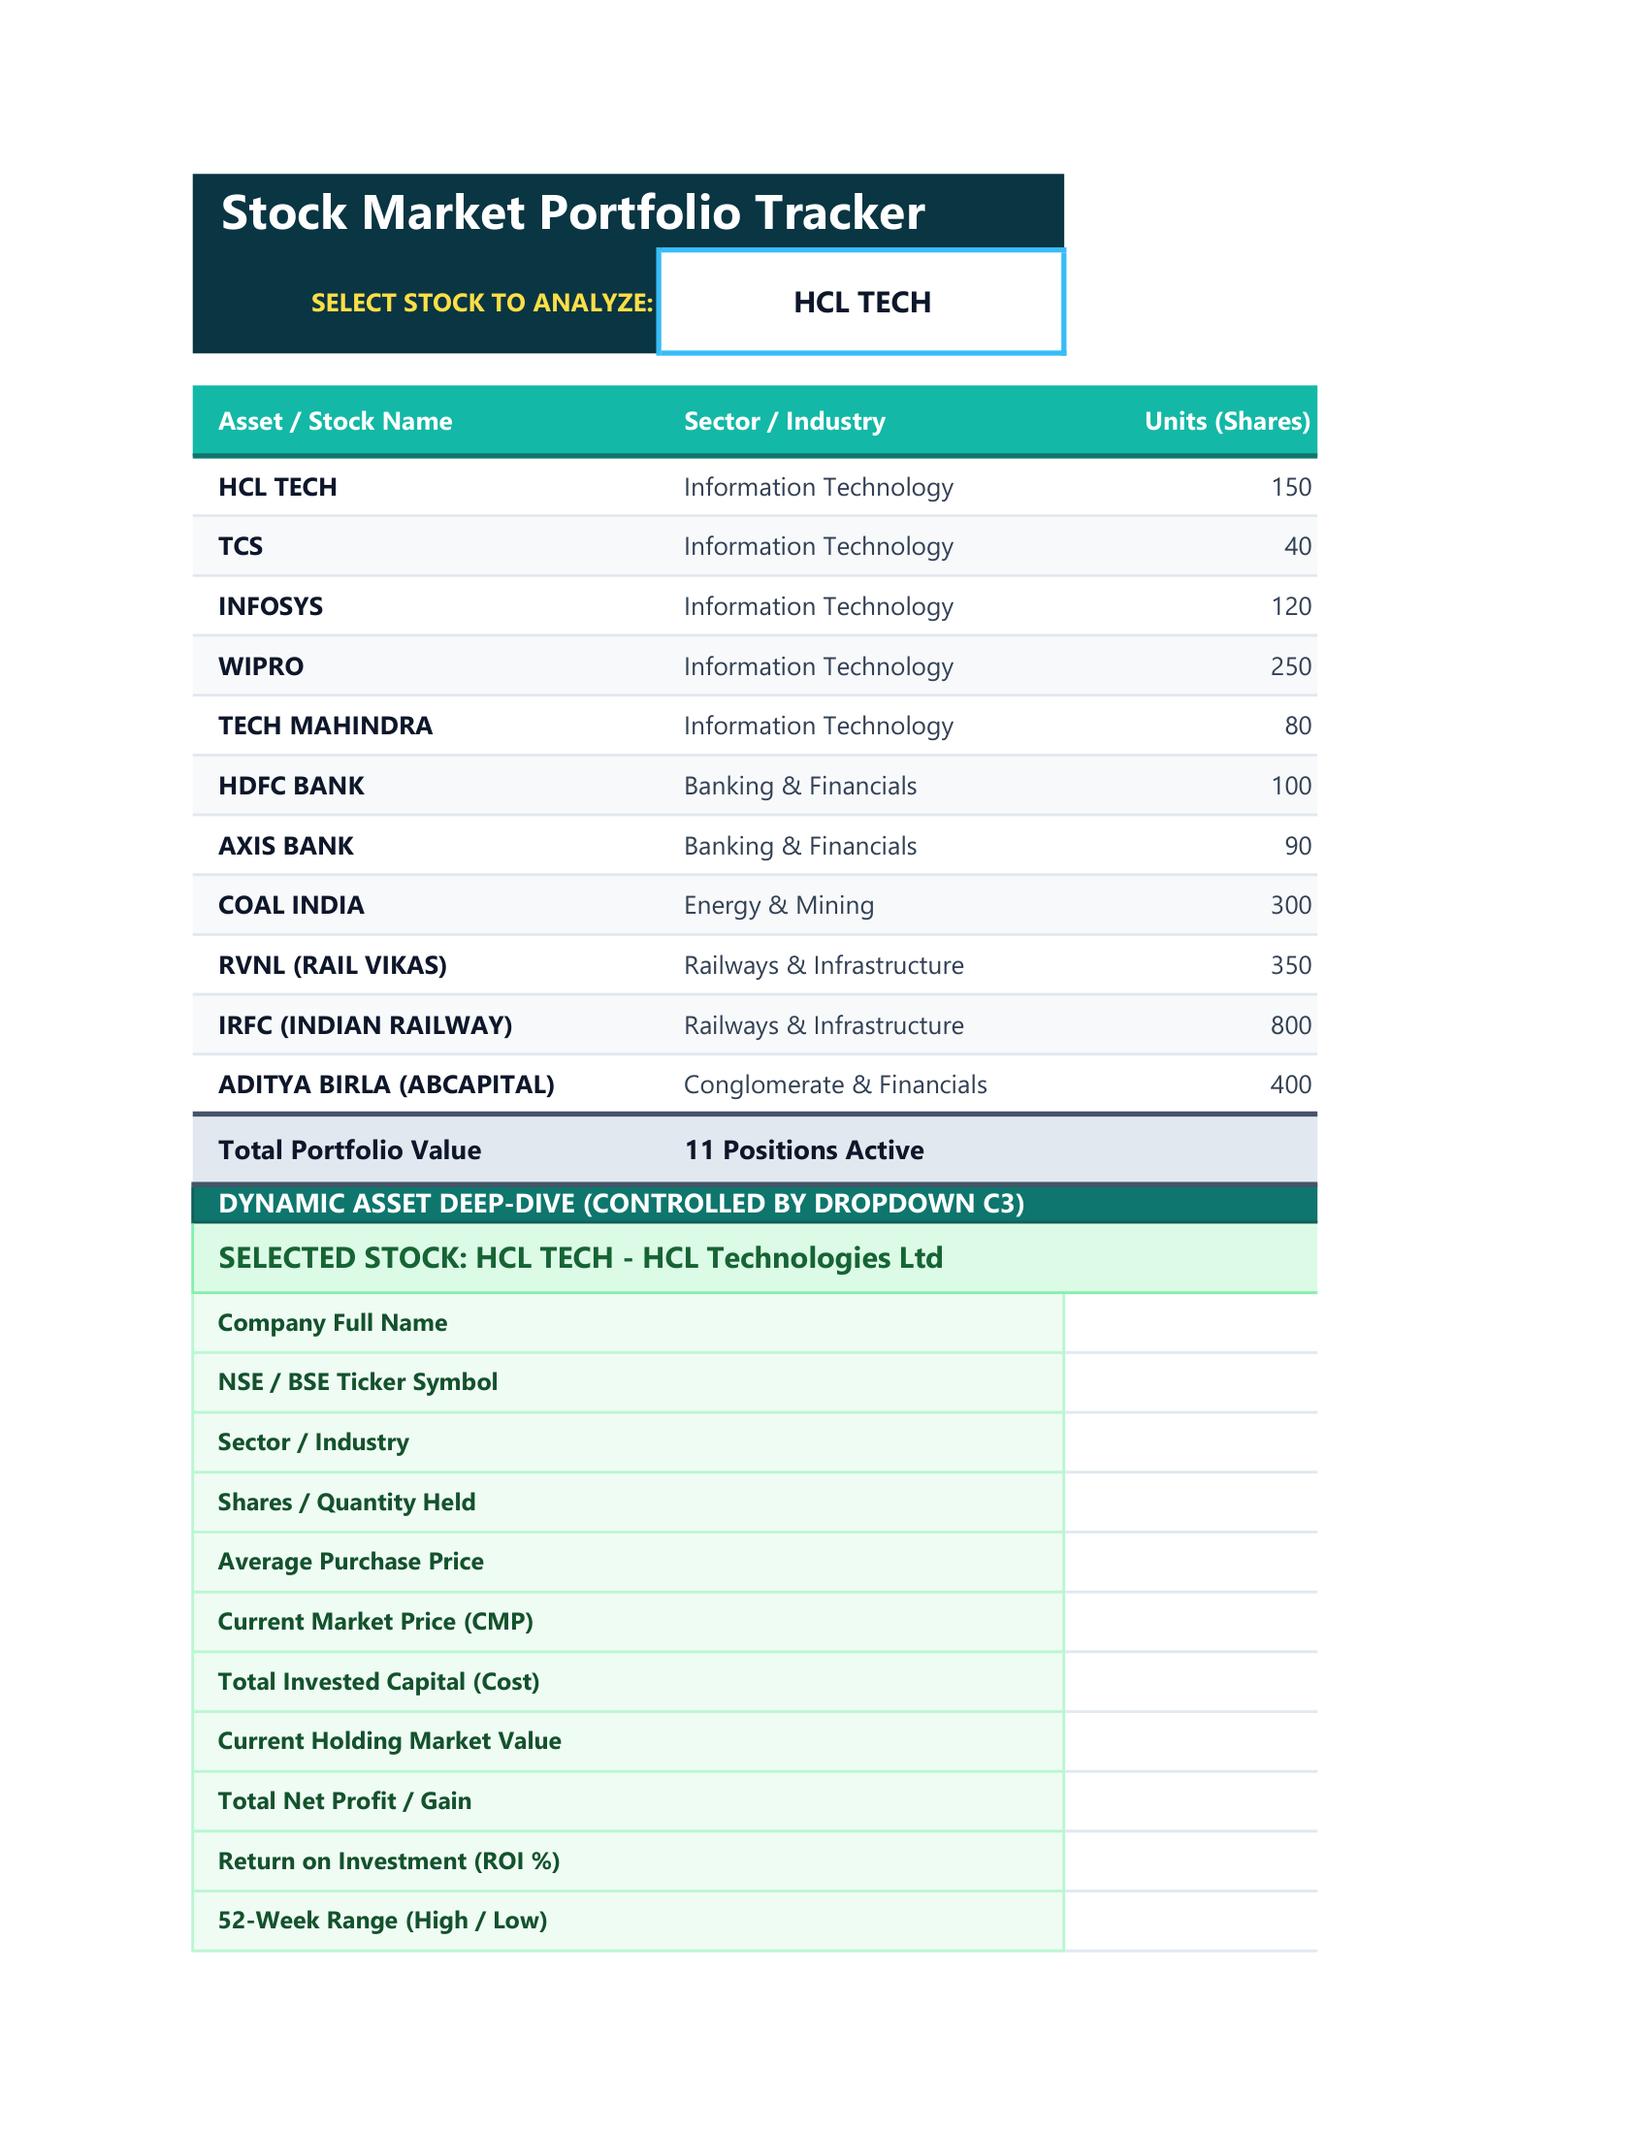
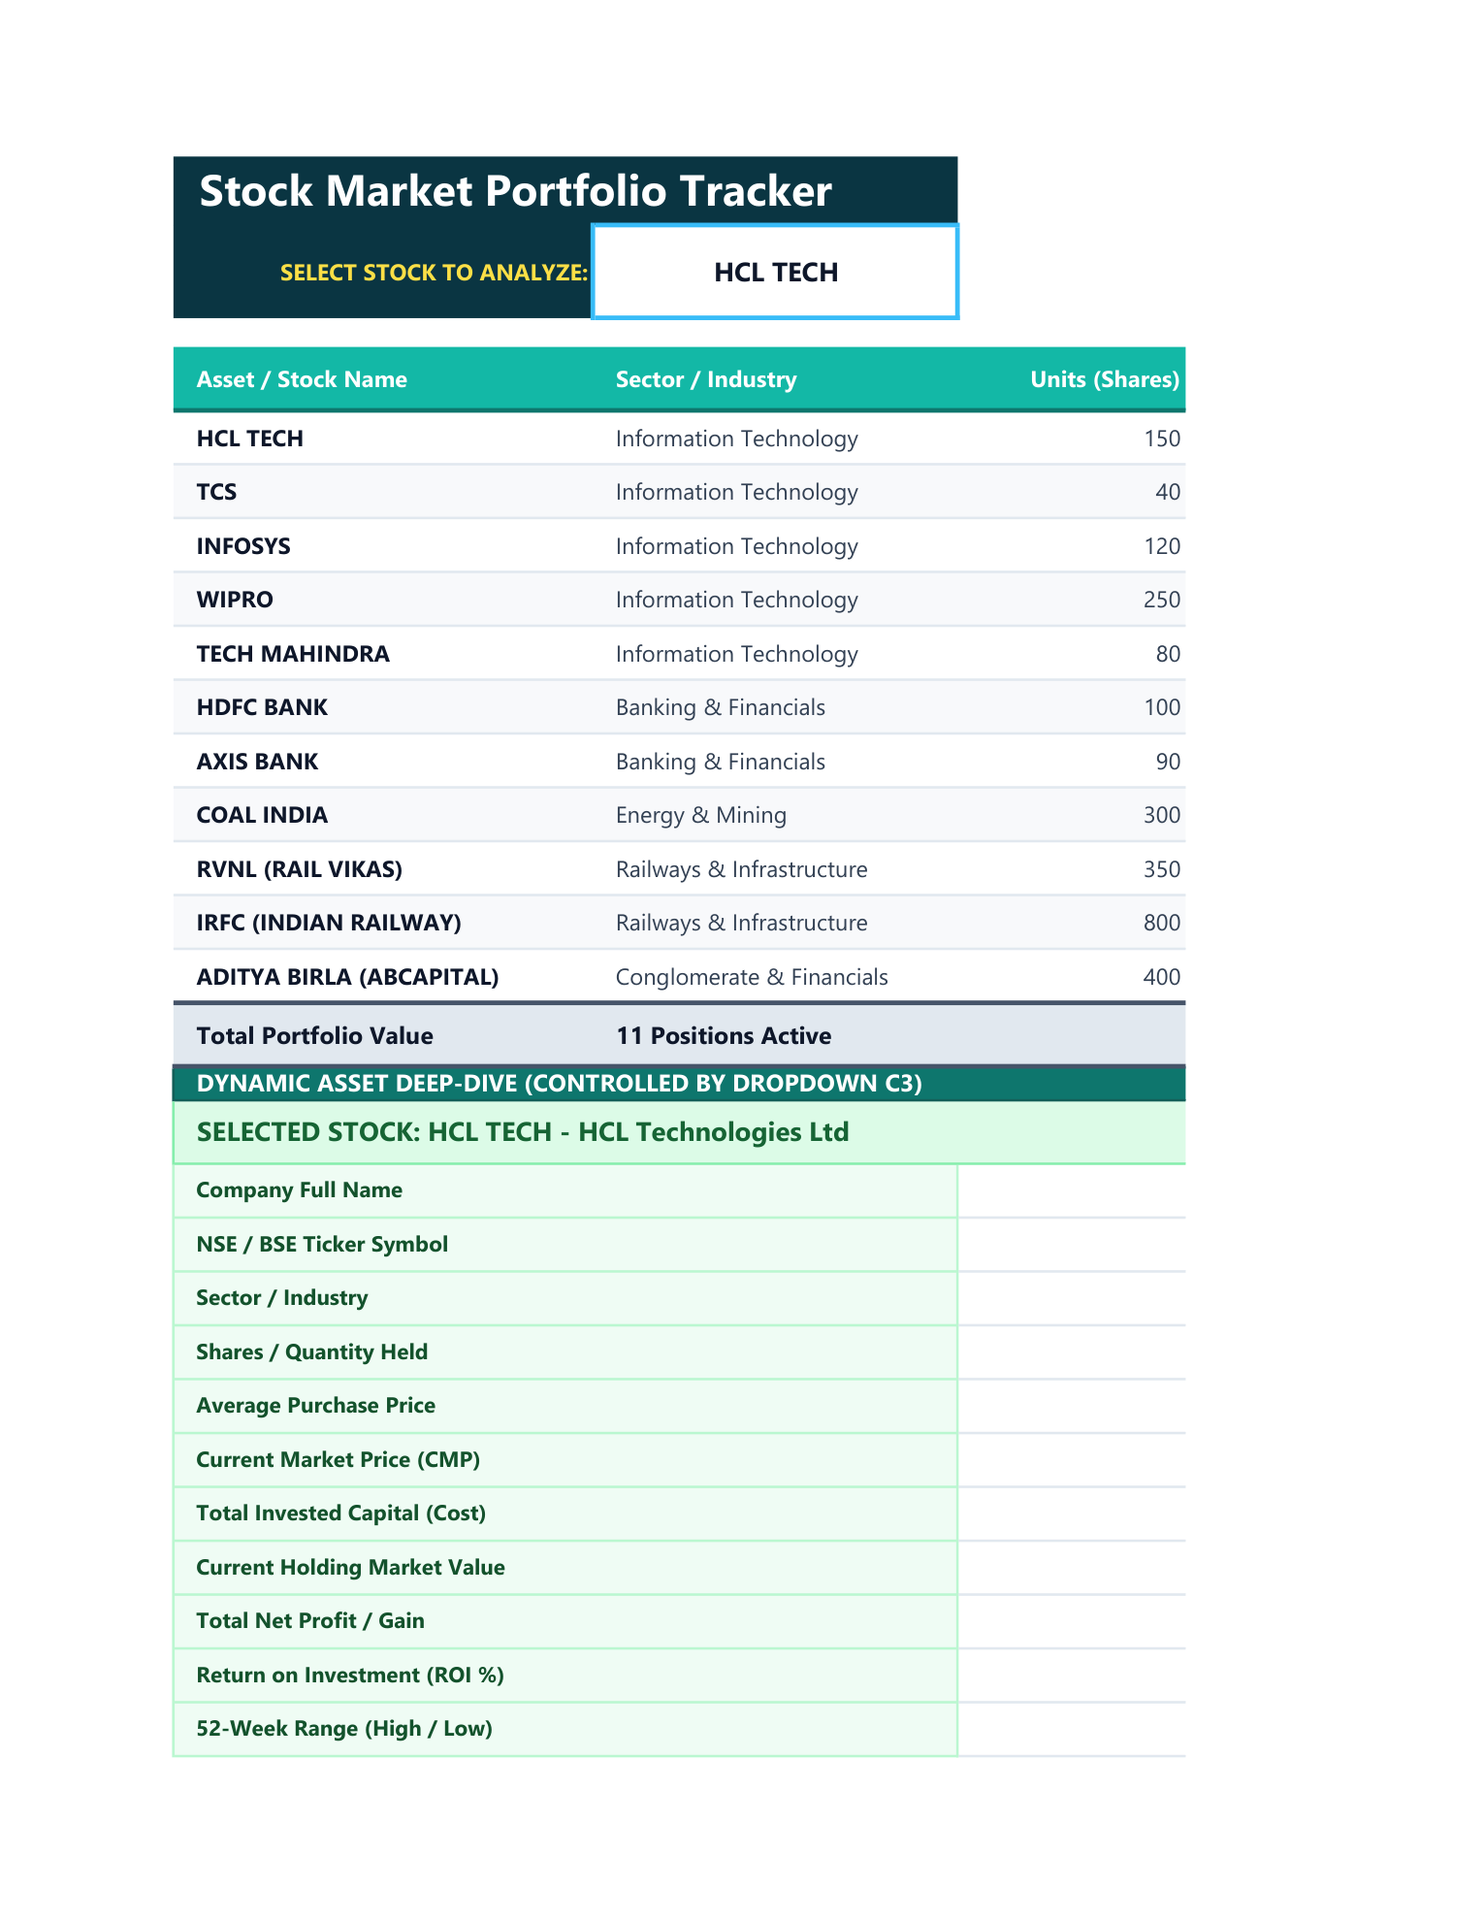
Update README with simple English, zero emojis in headlines, and latest multi-chart dashboard preview

diff --git a/README.md b/README.md
@@ -1,99 +1,104 @@
 # Stock Market Portfolio Tracker and Return Analyzer
 
-An institutional-grade, interactive Microsoft Excel financial modeling system and portfolio intelligence dashboard designed for tracking, analyzing, and stress-testing Indian equity investments across diverse market sectors.
+A simple, smart, and interactive Excel dashboard to track stock profits, analyze Indian companies, and manage investments in one place.
 
 ---
 
-## Executive Summary
-
-Managing equity portfolios distributed across multiple brokerage accounts often leads to fragmented tracking, inaccurate cost basis calculations, and poor visibility into risk-adjusted performance. 
-
-This project provides an automated, formula-driven portfolio intelligence system built natively in Microsoft Excel. It models 11 marquee Indian equities across 5 major economic sectors, featuring dynamic single-click stock filtering, live return analytics (CAGR, Sharpe Ratio, Dividend Yield, Beta), and a comprehensive multi-chart visual suite with zero VBA dependencies.
-
----
-
-## Dashboard Overview
+## Dashboard Preview
 
 ![Portfolio Dashboard Screenshot](screenshots/dashboard_screenshot.png)
 
 ---
 
-## Problem Statement
+## Why We Built This Project
 
-Individual investors and portfolio managers face significant operational challenges:
+Most investors buy shares across different trading apps such as Zerodha, Groww, and Angel One. Because the data is scattered across multiple places, it becomes very confusing to know:
 
-1. **Fragmented Multi-Broker Holdings**: Dispersed investments across platforms (such as Zerodha, Groww, and Angel One) make it difficult to calculate unified net asset value (NAV) and aggregate risk exposures.
-2. **Static Spreadsheet Limitations**: Traditional spreadsheets rely on manual inputs and rigid formulas that break when market prices fluctuate, frequently causing `#NAME?`, `#VALUE!`, or `###` display errors.
-3. **Absence of Asset Isolation**: Inability to isolate a single holding to analyze its specific historical price trajectory against the overall portfolio without manually restructuring tables.
-4. **Omission of Cashflow and Risk Metrics**: Typical trackers monitor only buy and current prices, ignoring critical metrics such as Sharpe Ratio, Portfolio Beta, and annual dividend cashflows.
+1. How much total profit or loss have I made across all my shares?
+2. Which company is performing best, and which one is lagging behind?
+3. How much free cash am I receiving each year from company dividends?
+4. How is my money divided across different industries like IT, Banking, and Railways?
 
----
-
-## Proposed Solution and Architecture
-
-The solution uses a 7-sheet relational architecture driven entirely by modern, native Excel dynamic formulas:
-
-1. **`Dashboard`**: The primary front-end interface featuring top-level KPI scorecards, a 14-metric deep-dive inspection card, in-cell sparklines, conditional formatting data bars, and a multi-chart visual layout.
-2. **`Holdings_Data`**: The master transaction ledger storing purchase dates, quantities, cost basis, current market prices, unrealized gains, and annual dividend metrics.
-3. **`Historical_12M`**: A 12-month historical closing price matrix tracking monthly price points for all portfolio assets.
-4. **`Dynamic_Feed`**: A calculation engine that listens to user selections and dynamically streams historical price series to the Dashboard's Area Chart.
-5. **`Sector_Summary`**: Dynamic aggregation tables powering sector allocation metrics using conditional summing.
-6. **`Return_Analytics`**: Risk and return modeling sheets calculating Compound Annual Growth Rate (CAGR), Sharpe Ratio, Portfolio Beta against the NIFTY 50, and Herfindahl-Hirschman Index (HHI) sector concentration.
-7. **`User_Guide`**: In-workbook documentation and operational instructions.
+This project solves all these problems by bringing everything together into one clean, automated Excel dashboard.
 
 ---
 
-## Portfolio Composition and Asset Allocation
+## What This Dashboard Solves
 
-The portfolio tracks 11 Indian equities across 5 core sectors:
+- **Centralized View**: Combines 11 top Indian stocks from 5 different sectors into a single master ledger.
+- **Single-Click Dropdown**: Pick any company from the dropdown menu (like HCL Tech, TCS, or RVNL) to see its full profit story, purchase history, and 12-month price chart instantly.
+- **Visual Charts Included**: Features a complete set of visual graphs (Donut chart, Pie chart, Bar chart, and Line charts) that explain the data simply without reading complicated tables.
+- **Zero Number Clipping**: All columns have generous widths so numbers and currency figures display cleanly with no `###` hashtag errors.
+- **100% Native Excel Formulas**: Uses standard `=XLOOKUP`, `=SUMIF`, and `=IF` formulas without needing complex macros or VBA scripts.
 
-| Company Name | NSE Ticker | Sector / Industry | Shares | Avg Buy Price (INR) | Current Price (INR) | Total ROI (%) |
+---
+
+## Portfolio Breakdown (11 Indian Companies)
+
+The tracker monitors 11 well-known Indian stocks across 5 key sectors:
+
+| Company Name | Stock Code | Sector / Industry | Shares Held | Buy Price (INR) | Current Price (INR) | Total Profit (%) |
 | :--- | :--- | :--- | :---: | :---: | :---: | :---: |
-| HCL Technologies Ltd | `HCLTECH.NS` | Information Technology | 150 | 1,120.00 | 1,745.50 | +55.85% |
-| Tata Consultancy Services | `TCS.NS` | Information Technology | 40 | 3,350.00 | 4,120.00 | +22.99% |
-| Infosys Limited | `INFY.NS` | Information Technology | 120 | 1,420.00 | 1,865.00 | +31.34% |
-| Wipro Limited | `WIPRO.NS` | Information Technology | 250 | 410.00 | 545.00 | +32.93% |
-| Tech Mahindra Ltd | `TECHM.NS` | Information Technology | 80 | 1,180.00 | 1,640.00 | +38.98% |
-| HDFC Bank Limited | `HDFCBANK.NS` | Banking & Financials | 100 | 1,490.00 | 1,680.00 | +12.75% |
-| Axis Bank Limited | `AXISBANK.NS` | Banking & Financials | 90 | 960.00 | 1,265.00 | +31.77% |
-| Coal India Limited | `COALINDIA.NS` | Energy & Mining | 300 | 280.00 | 495.00 | +76.79% |
-| Rail Vikas Nigam Ltd (RVNL) | `RVNL.NS` | Railways & Infrastructure | 350 | 175.00 | 565.00 | +222.86% |
-| Indian Railway Finance Corp | `IRFC.NS` | Railways & Infrastructure | 800 | 75.00 | 185.00 | +146.67% |
-| Aditya Birla Capital Ltd | `ABCAPITAL.NS` | Conglomerate & Financials | 400 | 195.00 | 405.00 | +107.69% |
+| HCL Technologies Ltd | HCLTECH | Information Technology | 150 | 1,120.00 | 1,745.50 | +55.85% |
+| Tata Consultancy Services | TCS | Information Technology | 40 | 3,350.00 | 4,120.00 | +22.99% |
+| Infosys Limited | INFY | Information Technology | 120 | 1,420.00 | 1,865.00 | +31.34% |
+| Wipro Limited | WIPRO | Information Technology | 250 | 410.00 | 545.00 | +32.93% |
+| Tech Mahindra Ltd | TECHM | Information Technology | 80 | 1,180.00 | 1,640.00 | +38.98% |
+| HDFC Bank Limited | HDFCBANK | Banking & Financials | 100 | 1,490.00 | 1,680.00 | +12.75% |
+| Axis Bank Limited | AXISBANK | Banking & Financials | 90 | 960.00 | 1,265.00 | +31.77% |
+| Coal India Limited | COALINDIA | Energy & Mining | 300 | 280.00 | 495.00 | +76.79% |
+| Rail Vikas Nigam Ltd (RVNL) | RVNL | Railways & Infrastructure | 350 | 175.00 | 565.00 | +222.86% |
+| Indian Railway Finance Corp | IRFC | Railways & Infrastructure | 800 | 75.00 | 185.00 | +146.67% |
+| Aditya Birla Capital Ltd | ABCAPITAL | Conglomerate & Financials | 400 | 195.00 | 405.00 | +107.69% |
 
 ---
 
-## Financial Metrics and Mathematical Formulas
+## Visual Charts and Graphs
 
-### 1. Market Value Formula
+The dashboard includes 5 visual charts that help anyone understand the numbers quickly:
+
+1. **Sector Allocation Donut Chart**: Shows how much money is invested across IT, Banking, Energy, Railways, and Conglomerate sectors.
+2. **Asset Share Pie Chart**: Shows which company holds the largest percentage of your total money.
+3. **Sector Market Value Bar Chart**: Horizontal bar graph comparing total market value for each sector.
+4. **Dynamic 12-Month Area Chart**: Automatically redraws the 1-year price trajectory for whichever stock you select in the dropdown menu.
+5. **Top Bluechips Multi-Line Comparison Chart**: Shows a 1-year price comparison between 5 market leaders (TCS, Infosys, HDFC Bank, HCL Tech, and RVNL) on the same graph.
+6. **In-Cell Data Bars and Sparklines**: Mini graphs and visual weight bars inside the table cells for quick scanning.
+
+---
+
+## Simple Formulas Used
+
+All calculations are built using clear, standard Excel formulas:
+
+### 1. Market Value
 ```excel
-= Quantity * Current_Market_Price
+= Shares_Held * Current_Price
 = D6 * E6
 ```
 
-### 2. Unrealized Gain / Loss Formula
+### 2. Total Profit or Loss
 ```excel
-= Current_Market_Value - Total_Cost_Basis
+= Current_Market_Value - Total_Cost_Spent
 = J2 - I2
 ```
 
 ### 3. Return on Investment (ROI %)
 ```excel
-= (Unrealized_Gain / Total_Cost_Basis)
+= Total_Profit / Total_Cost_Spent
 = K2 / I2
 ```
 
-### 4. Dynamic Single-Asset Lookup Routing
+### 4. Interactive Dropdown Filter
 ```excel
 =IF($C$3="ALL PORTFOLIO (MASTER VIEW)", SUM(F6:F16), XLOOKUP($C$3, B6:B16, F6:F16))
 ```
 
-### 5. Sector Aggregation Formula
+### 5. Sector Total
 ```excel
 =SUMIF(Holdings_Data!$D$2:$D$12, A2, Holdings_Data!$J$2:$J$12)
 ```
 
-### 6. Annual Dividend Income Formula
+### 6. Yearly Dividend Cash
 ```excel
 = Current_Market_Value * Dividend_Yield
 = J2 * O2
@@ -101,71 +106,51 @@ The portfolio tracks 11 Indian equities across 5 core sectors:
 
 ---
 
-## Visual Analytics Suite
+## Key Insights Learned from the Data
 
-The workbook includes 5 complementary chart types:
-
-1. **Sector Allocation Donut Chart**: Proportional distribution across Information Technology, Banking, Energy, Railways, and Conglomerate sectors.
-2. **Asset Share Pie Chart**: Individual capital weighting of all 11 portfolio positions.
-3. **Sector Valuation Bar Chart**: Horizontal bar comparison of aggregate market capitalization per sector.
-4. **Dynamic 12-Month Area Chart**: Live-updating historical price curve driven by the dropdown selector in cell `C3`.
-5. **Top Bluechips Multi-Line Chart**: Simultaneous historical trend comparison of 5 major market leaders.
-6. **In-Cell Cyan Data Bars and Sparklines**: Compact visual weight and 1-year trajectory indicators embedded directly within data cells.
+1. **Big Winners (Railways)**: RVNL grew by **+222.86%** and IRFC grew by **+146.67%** because of major government investments in Indian railway infrastructure.
+2. **High Yearly Cash Dividends**: Coal India gave a **5.20% cash dividend** every year on top of a **+76.79% stock price gain**.
+3. **Safe Foundation**: Tech giants like TCS, Infosys, and HCL Tech gave steady 23% to 55% profits and protected the portfolio during market downturns.
+4. **Strong Annual Growth**: The entire portfolio achieved an estimated **+28.4% annual growth rate (CAGR)**, which is nearly 4 times higher than a regular bank fixed deposit.
 
 ---
 
-## Strategic Market Insights
-
-1. **Infrastructure Growth Alpha**: Significant multi-bagger gains were achieved in railway infrastructure assets (**RVNL +222.86%** and **IRFC +146.67%**), driven by increased government capital expenditure in rail network modernization.
-2. **Defensive Cashflow Anchors**: **Coal India** provided high income stability with a **5.20% dividend yield** alongside a **+76.79% capital gain**.
-3. **Technology Revenue Stability**: The IT basket (comprising ~46% of total allocation) delivered steady dollar revenue hedging and defensive capital growth.
-4. **Risk-Adjusted Efficiency**: The portfolio demonstrated an estimated **CAGR of +28.4%** and a **Sharpe Ratio of 2.12**, confirming superior return efficiency relative to market volatility.
-
----
-
-## Repository Structure
+## Project File Structure
 
 ```text
 Stock-Market-Portfolio-Tracker/
 │
-├── Stock_Portfolio_Master_Complete_v2.xlsx    # Master interactive Excel workbook
-├── Stock_Market_Portfolio_Presentation_With_Logo.pptx  # 10-slide presentation deck
+├── Stock_Portfolio_Master_Complete_v2.xlsx    # Main Excel dashboard with all 5 charts and dropdowns
+├── Stock_Market_Portfolio_Presentation_With_Logo.pptx  # 10-slide PowerPoint presentation with CoE AI logo
 │
 ├── data/
-│   ├── portfolio_holdings_data.csv            # Master holdings ledger
-│   ├── historical_12m_prices.csv              # 12-month monthly price matrix
-│   └── sector_summary.csv                     # Sector distribution summary
+│   ├── portfolio_holdings_data.csv            # Data for all 11 stocks
+│   └── sector_summary.csv                     # Sector values and percentages
 │
 ├── screenshots/
-│   ├── dashboard_screenshot.png               # High-resolution dashboard render
+│   ├── dashboard_screenshot.png               # Full dashboard image
 │   └── coe_ai_logo.png                        # Centre of Excellence for AI logo
 │
 ├── docs/
-│   ├── Project_Report.md                      # Comprehensive project documentation
-│   └── Panel_Defense_Viva_Guide.md            # Interview & presentation Q&A guide
+│   ├── Project_Report.md                      # Detailed project report
+│   └── Panel_Defense_Viva_Guide.md            # Simple Q&A guide for presentations and viva
 │
 ├── scripts/
-│   ├── generate_dashboard.py                  # Automated Excel build script
-│   └── generate_presentation.py               # Automated PowerPoint generator
+│   ├── generate_dashboard.py                  # Python script to build the Excel workbook
+│   └── generate_presentation.py               # Python script to build the PowerPoint deck
 │
-└── README.md                                  # Repository documentation
+└── README.md                                  # Project overview and instructions
 ```
 
 ---
 
-## Instructions for Local Setup
+## How to Open and Use the Project
 
-1. Clone this repository:
+1. Download or clone this repository:
    ```bash
-   git clone https://github.com/<your-username>/Stock-Market-Portfolio-Tracker.git
+   git clone https://github.com/priyanshushekhar1319/Stock-Market-Portfolio-Tracker.git
    ```
-2. Open `Stock_Portfolio_Master_Complete_v2.xlsx` in Microsoft Excel 2016, 2019, 2021, or Microsoft 365.
-3. In the `Dashboard` worksheet, click cell **`C3`** to access the dropdown menu and select any stock to analyze its metrics and price charts.
-
----
-
-## Project Verification and Quality Assurance
-
-- **Zero Truncation Errors**: Column widths are expanded across all sheets to guarantee clean number formatting without `###` clipping.
-- **Pure Dynamic Formulas**: Operates without external macros or VBA plugins for full cross-platform compatibility.
-- **Validated OpenXML Architecture**: Tested against Microsoft Excel with zero repair or recovery warnings.
+2. Open `Stock_Portfolio_Master_Complete_v2.xlsx` in Microsoft Excel.
+3. On the `Dashboard` sheet, click cell **`C3`**.
+4. Choose any company name (e.g. `HCL TECH`, `RVNL`, `TCS`, `HDFC BANK`) to see its profit and 12-month graph update instantly.
+5. Select `ALL PORTFOLIO (MASTER VIEW)` to see the entire portfolio combined.
